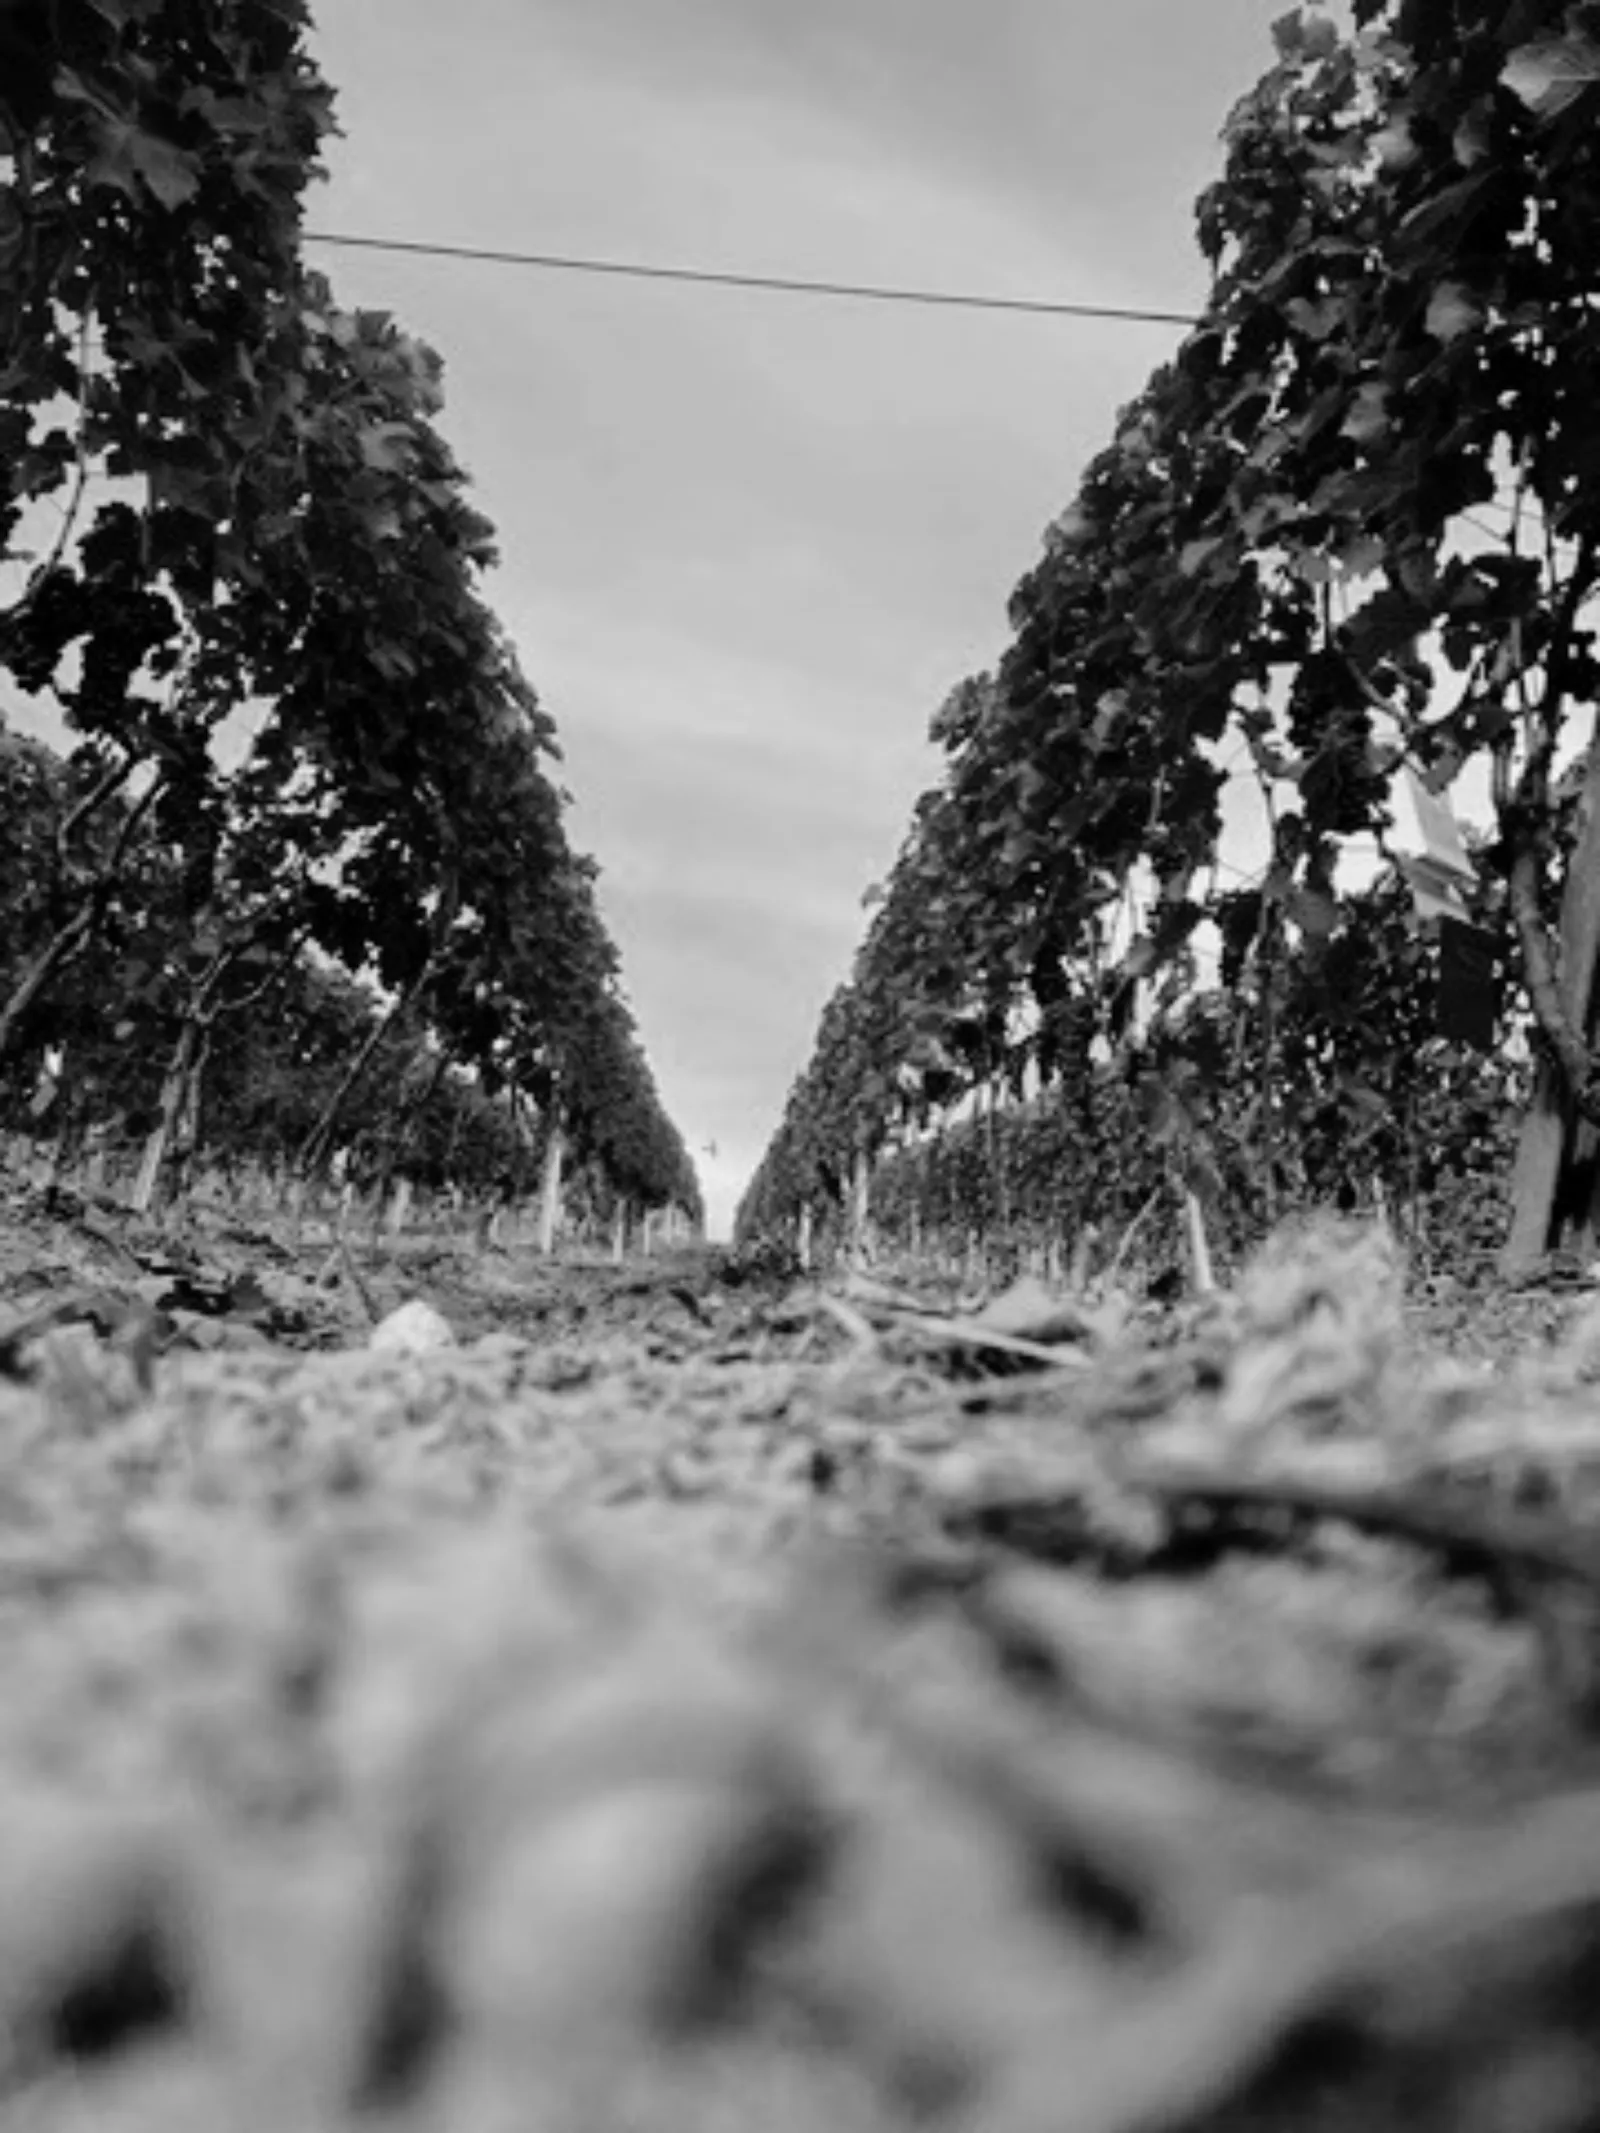
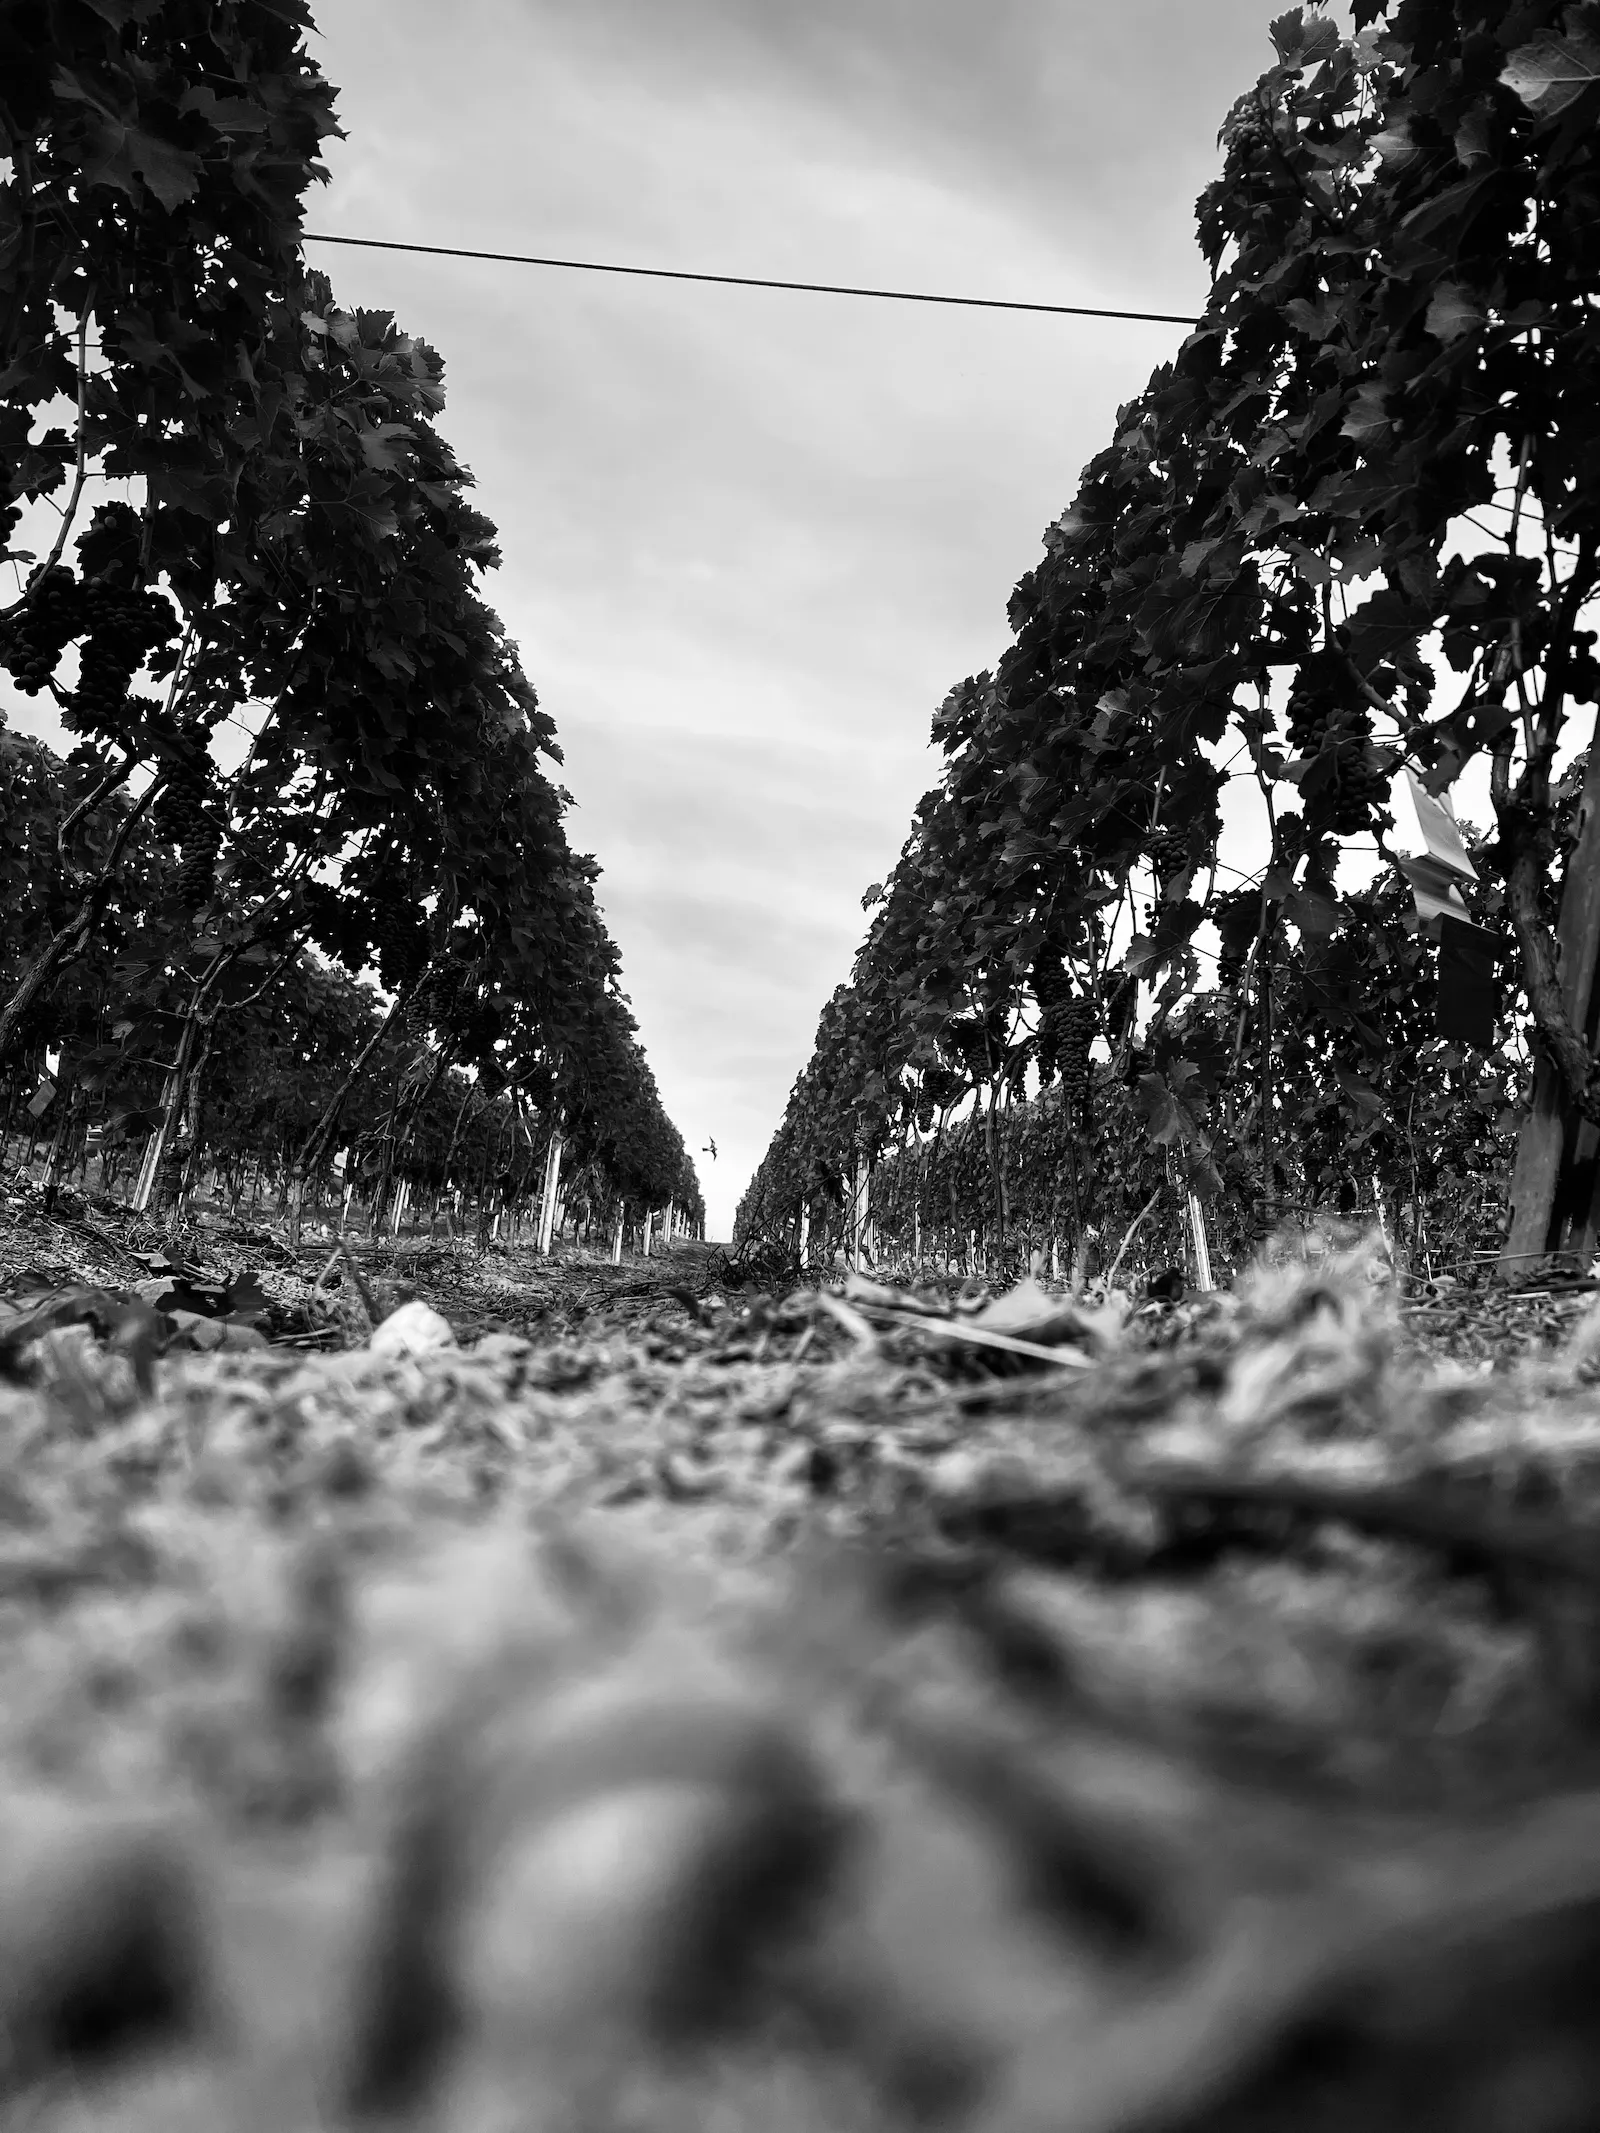
fix(wine-page): update image source to home.bottle.webp [SIM-xxxx]

diff --git a/src/app/[locale]/(with-footer)/page.tsx b/src/app/[locale]/(with-footer)/page.tsx
@@ -71,7 +71,7 @@ export default async function HomePage() {
         propertyValue={Intl.NumberFormat(locale).format(
           parseInt(t('wine.data.value'), 10),
         )}
-        src="/img/home.wine.webp"
+        src="/img/home.bottle.webp"
         text={t.rich('wine.text', handleRichTags)}
       />
 